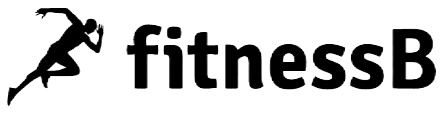
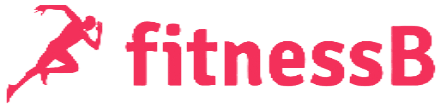
first code

Changed region(s): [[0.2647, 0.1963, 1.0, 0.8131], [0.0, 0.028, 0.2353, 0.9533]]

diff --git a/frontend/src/Pages/SignIn.tsx b/frontend/src/Pages/SignIn.tsx
@@ -1,41 +1,152 @@
-import React from 'react'
+import React, { useState } from 'react';
 import HomeBanner from "../Assets/homeBanner.mp4";
-import SIgnIn from "../Assets/signin.mp4"
-import fitnessB from "../Assets/fitnessB-transformed.png"
+import SIgnIn from "../Assets/signin.mp4";
+import fitnessB from "../Assets/fitnessB-transformed.png";
 import { Link } from 'react-router-dom';
+
+type FormErrors = {
+  email?: string;
+  password?: string;
+};
+
 const SignIn = () => {
+  const [email, setEmail] = useState('');
+  const [password, setPassword] = useState('');
+  const [formErrors, setFormErrors] = useState<FormErrors>({});
+  const validateForm = () => {
+    const errors: FormErrors = {};
+
+    if (!email) {
+      errors.email = 'Email is required';
+    } else if (!/\S+@\S+\.\S+/.test(email)) {
+      errors.email = 'Email is invalid';
+    }
+
+    if (!password) {
+      errors.password = 'Password is required';
+    } else if (password.length < 6) {
+      errors.password = 'Password must be at least 6 characters long';
+    }
+
+    return errors;
+  };
+
+  const handleSubmit = (event: React.FormEvent<HTMLFormElement>) => {
+    event.preventDefault();
+    const errors = validateForm();
+
+    if (Object.keys(errors).length === 0) {
+      // Submit form data to server
+      console.log('Form submitted successfully');
+    } else {
+      setFormErrors(errors);
+    }
+  };
+  const handleInputChange = (event: React.ChangeEvent<HTMLInputElement>) => {
+    const { name, value } = event.target;
+
+    switch (name) {
+      case 'email':
+        setEmail(value);
+        break;
+      case 'password':
+        setPassword(value);
+        break;
+    }
+  };
+
   return (
-    <div>
-      <div className='w-full h-full flex items-start'>
-        <div className='relative w-full h-full flex flex-col object-cover ' style={{ backgroundColor: 'black' }}>
-          <video
-            autoPlay
-            loop
-            controls={false}
-            muted
-            src={SIgnIn}
-            className='opacity-30'
-          // style={{
-          //   // opacity: 0.5,
-          //   backgroundColor: 'rgba(0,0,0,0.5)'
-          // }}
-          >
-          </video>
-          <div className='absolute top-[5%] text-white  left-[5%] flex font-bold'>
-            <Link to="/">
-              <img src={fitnessB} alt="fitnessb"
-                style={{
-                  filter: 'brightness(0%) invert(100%)',
-                  width: "200px"
-                }}
-              />
-            </Link>
+    <div className='w-full h-full'>
+      <div className='relative w-full h-full object-cover' style={{ backgroundColor: 'black' }}>
+        <video
+          autoPlay
+          loop
+          controls={false}
+          muted
+          src={SIgnIn}
+          className='opacity-30'
+        >
+        </video>
+        <div className='absolute top-1/2 left-1/2 transform -translate-x-1/2 -translate-y-1/2 text-white text-center font-bold'>
+          {/* form start here */}
+          <div className="flex flex-1 flex-col justify-center lg:px-8 w-screen">
+            <div className="sm:mx-auto sm:w-full sm:max-w-sm">
+              <form className="space-y-6" action="#" method="POST">
+                <div>
+                  <label htmlFor="email" className="block text-sm text-left font-medium leading-6 text-white">
+                    Email address
+                  </label>
+                  <div className="mt-2">
+                    <input
+                      id="email"
+                      name="email"
+                      type="email"
+                      autoComplete="email"
+                      required
+                      onChange={handleInputChange}
+                      className="block w-full rounded-md border-0 py-2 px-3 text-gray-900 shadow-sm ring-1 ring-inset ring-white placeholder:text-gray-400 focus:ring-2 focus:ring-inset  sm:text-sm sm:leading-6"
+                    />
+                  </div>
+                </div>
+
+                <div>
+                  <div className="flex items-center justify-between">
+                    <label htmlFor="password" className="block text-sm font-medium leading-6 text-white">
+                      Password
+                    </label>
+                    <div className="text-sm">
+                      <Link to="#" className="font-semibold text-[#f2305a] hover:text-[#F8446B]">
+                        Forgot password?
+                      </Link>
+                    </div>
+                  </div>
+                  <div className="mt-2">
+                    <input
+                      id="password"
+                      name="password"
+                      type="password"
+                      onChange={handleInputChange}
+                      autoComplete="current-password"
+                      required
+                      className="block w-full rounded-md border-0 py-2 px-3  text-gray-900 shadow-sm ring-1 ring-inset ring-white placeholder:text-gray-400 focus:ring-2 focus:ring-inset  sm:text-sm sm:leading-6"
+                    />
+                  </div>
+                </div>
+
+                <div>
+                  <button
+                    type="submit"
+                    className="flex w-full justify-center rounded-md bg-[#f2305a] px-3 py-1.5 text-sm font-semibold leading-6 text-white shadow-sm hover:bg-[#F8446B] focus-visible:outline focus-visible:outline-2 focus-visible:outline-offset-2 focus-visible:outline-indigo-600"
+                  >
+                    Sign in
+                  </button>
+                </div>
+              </form>
+
+              <p className="mt-10 text-center text-sm text-white">
+                Not a member?{'     '}
+                <Link to="/signup" className="font-semibold leading-6 text-[#f2305a] hover:text-[#F8446B]">
+                  Sign Up
+                </Link>
+              </p>
+            </div>
           </div>
+
         </div>
-        <div></div>
+        <div className='absolute top-[5%] left-[5%] flex font-bold'>
+          <Link to="/">
+            <img
+              src={fitnessB}
+              alt="fitnessb"
+              style={{
+                width: "300px",
+              }}
+            />
+          </Link>
+        </div>
       </div>
-    </div>
+    </div >
   )
 }
 
-export default SignIn
+export default SignIn;
